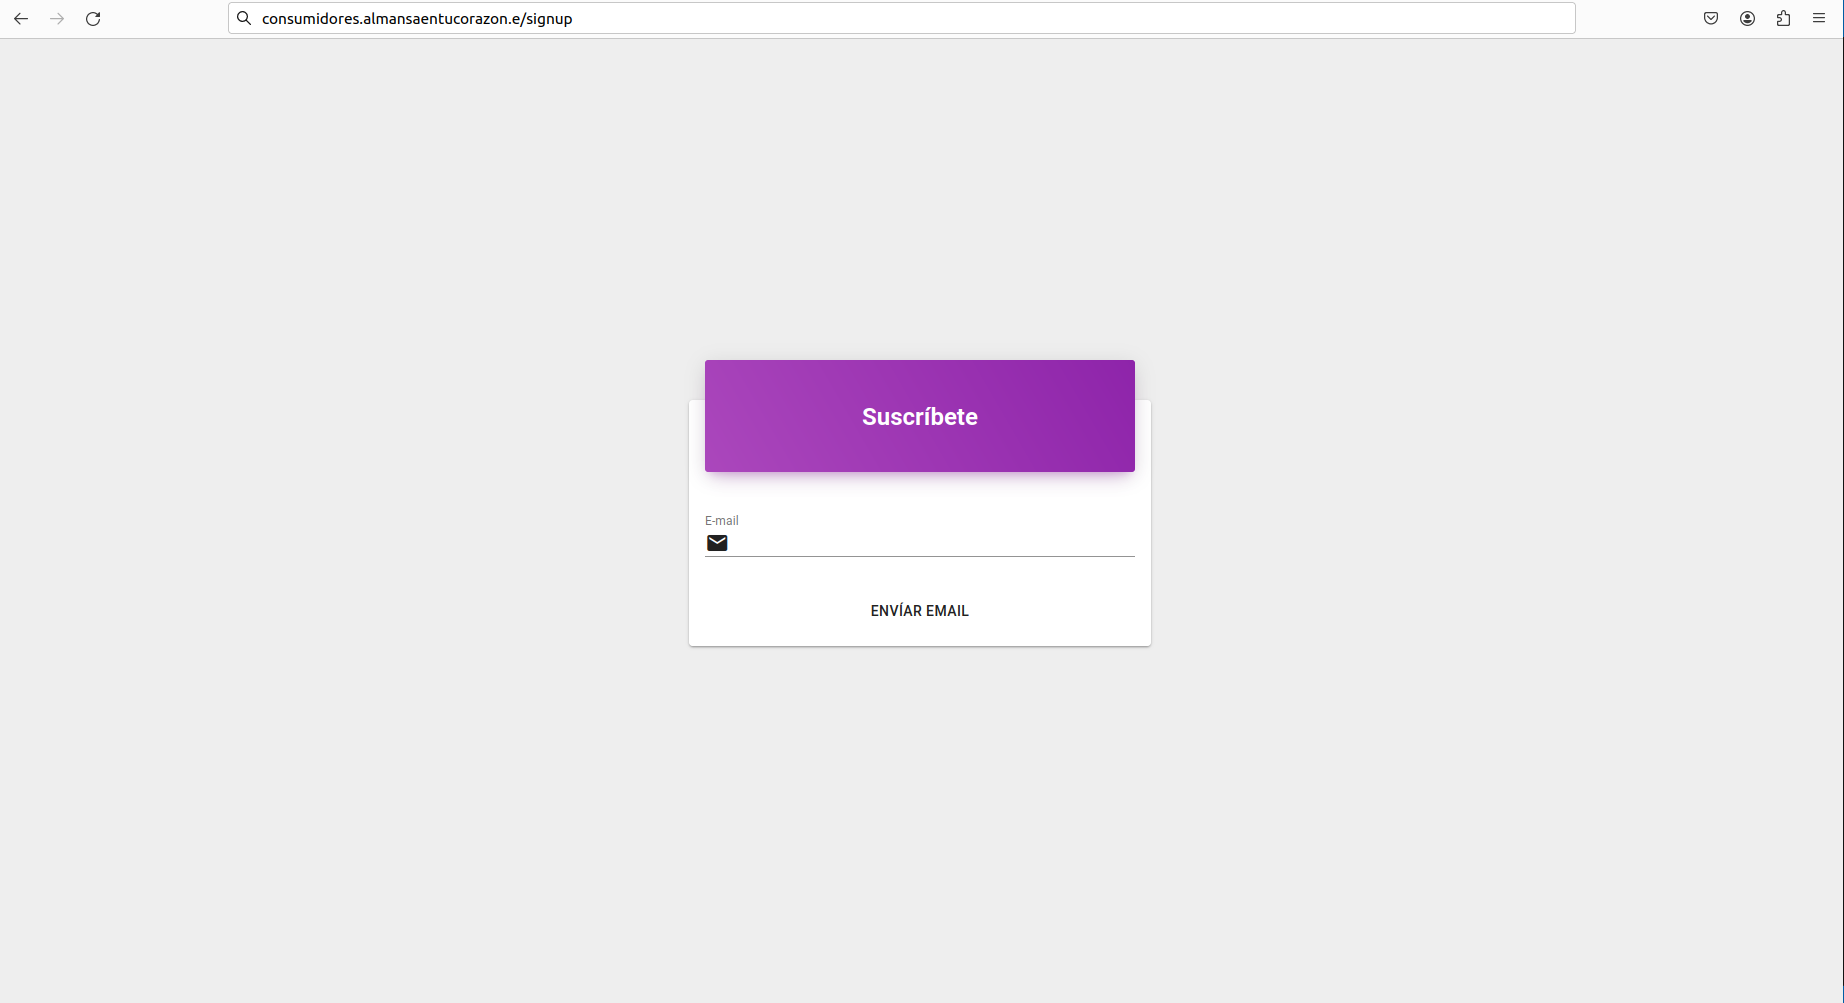
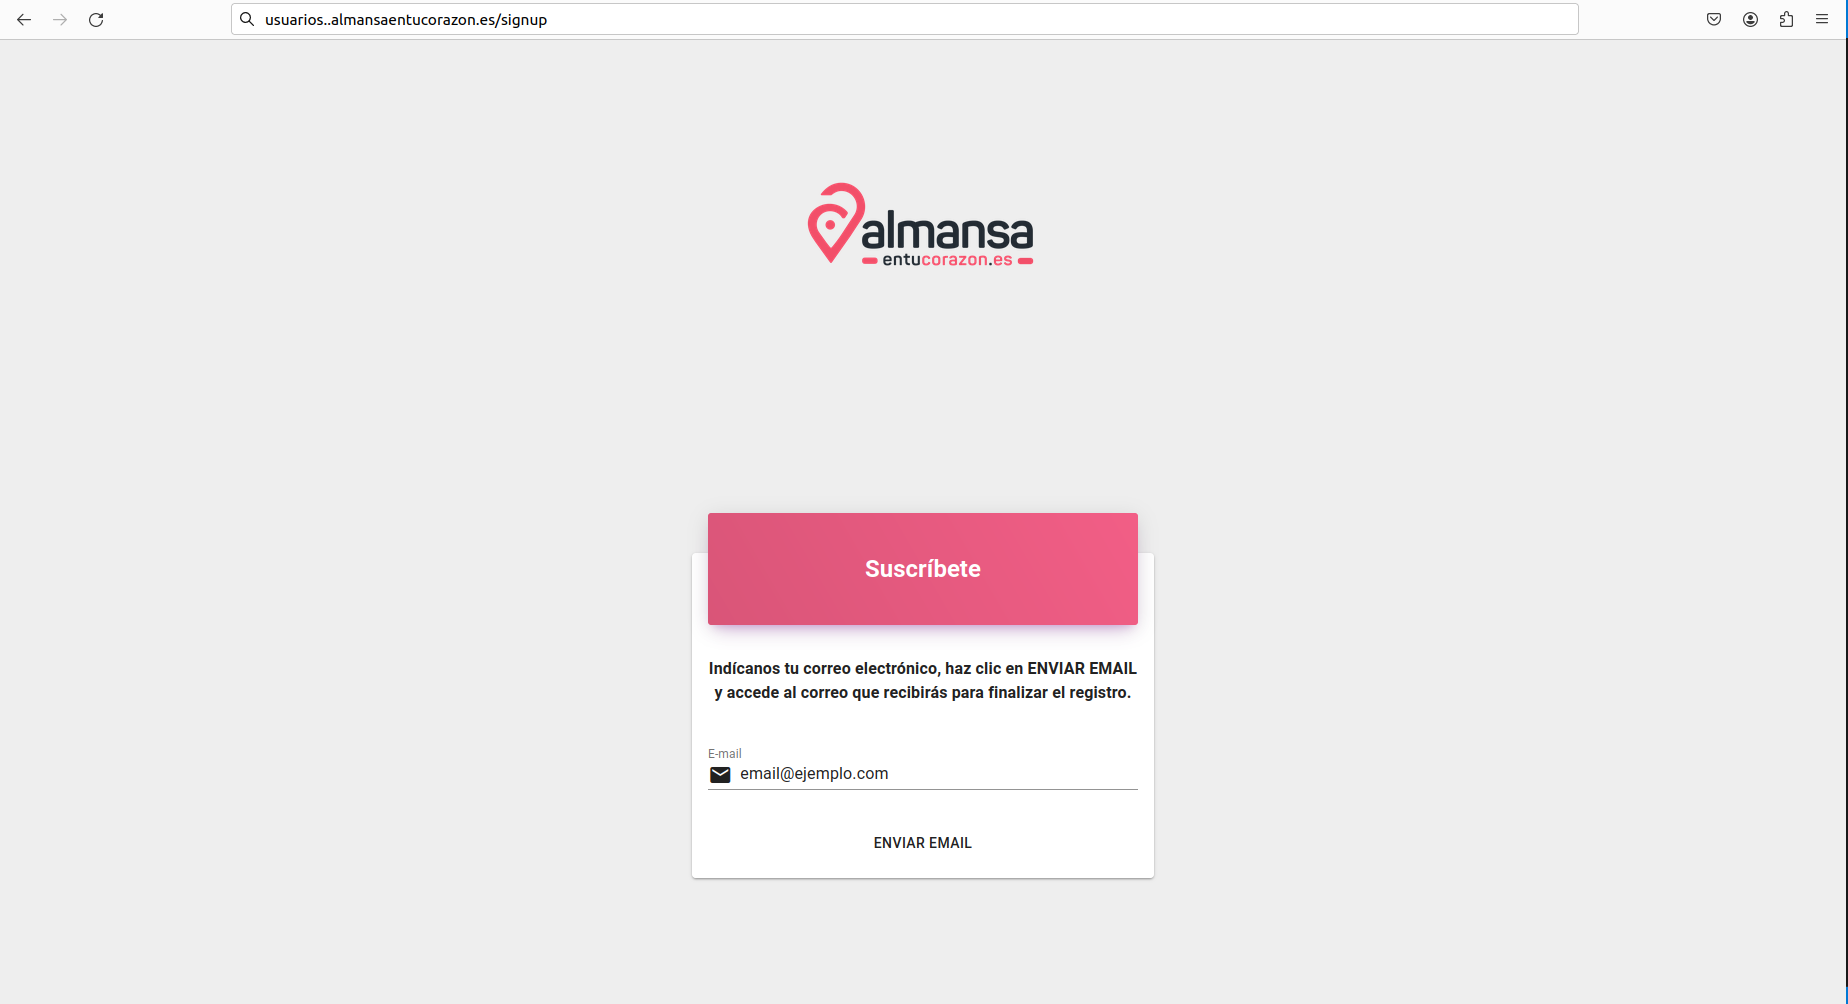
feat(comalma): Añadidos pasos para el alta de usuarios.

diff --git a/comalma/usuarios/altausuarios.md b/comalma/usuarios/altausuarios.md
@@ -4,8 +4,21 @@ Para dar de alta a un nuevo consumidor, lo haremos desde la pantalla *signup* de
 
 ![enviar email](../images/signup.png)
 
-Introduciremos un email, en el que el consumidor recibirá una entrada con un enlace que le redirigirá a la pantalla donde ingresará sus datos y se dará de alta en la aplicación.
+Introduciremos un email, en el que el consumidor recibirá una entrada con un enlace que le redirigirá a la pantalla de alta. 
 
-![ingrsar datos consumidor](../images/datos_signup_movil.png)
+![email enviado](../images/email_enviado.png)
+
+El enlace solo permanecerá habilitado o activo durante las siguientes dos horas de ser enviado. En que caso de que el enlace este caducado, se mostrará una pantalla informando de la situación.
+
+![enlace caducado](../images/enlace_caducado.png)
+
+Si el enlace es válido accederemos a la pantalla donde se ingresarán los datos del usuario, la aceptación de la política de privaciadad, la autorización para recibir comunicaciones y la contraseña para acceder a la aplicación.
+
+![ingresar datos consumidor uno](../images/datos_signup_movil1.png)
+![ingresar datos consumidor dos](../images/datos_signup_movil2.png)
+
+Si todos los datos están completados podremos crear el usuario y empezar a utilizar la aplicación.
+
+![usuario creado](../images/usuario_creado.png)
 
 [Volver al Índice](../index.md)

diff --git a/comalma/index.md b/comalma/index.md
@@ -19,6 +19,6 @@
 
 ![Alt text](./images/homeconsumidores.png)
 
-  - [Registro consumidor](./usuarios/altausuarios.md)
+  - [Registro usuario](./usuarios/altausuarios.md)
   - [Consultar mis compras](./usuarios/comprasusuarios.md)
   - [Consultar mis datos](./usuarios/datosusuario.md)
